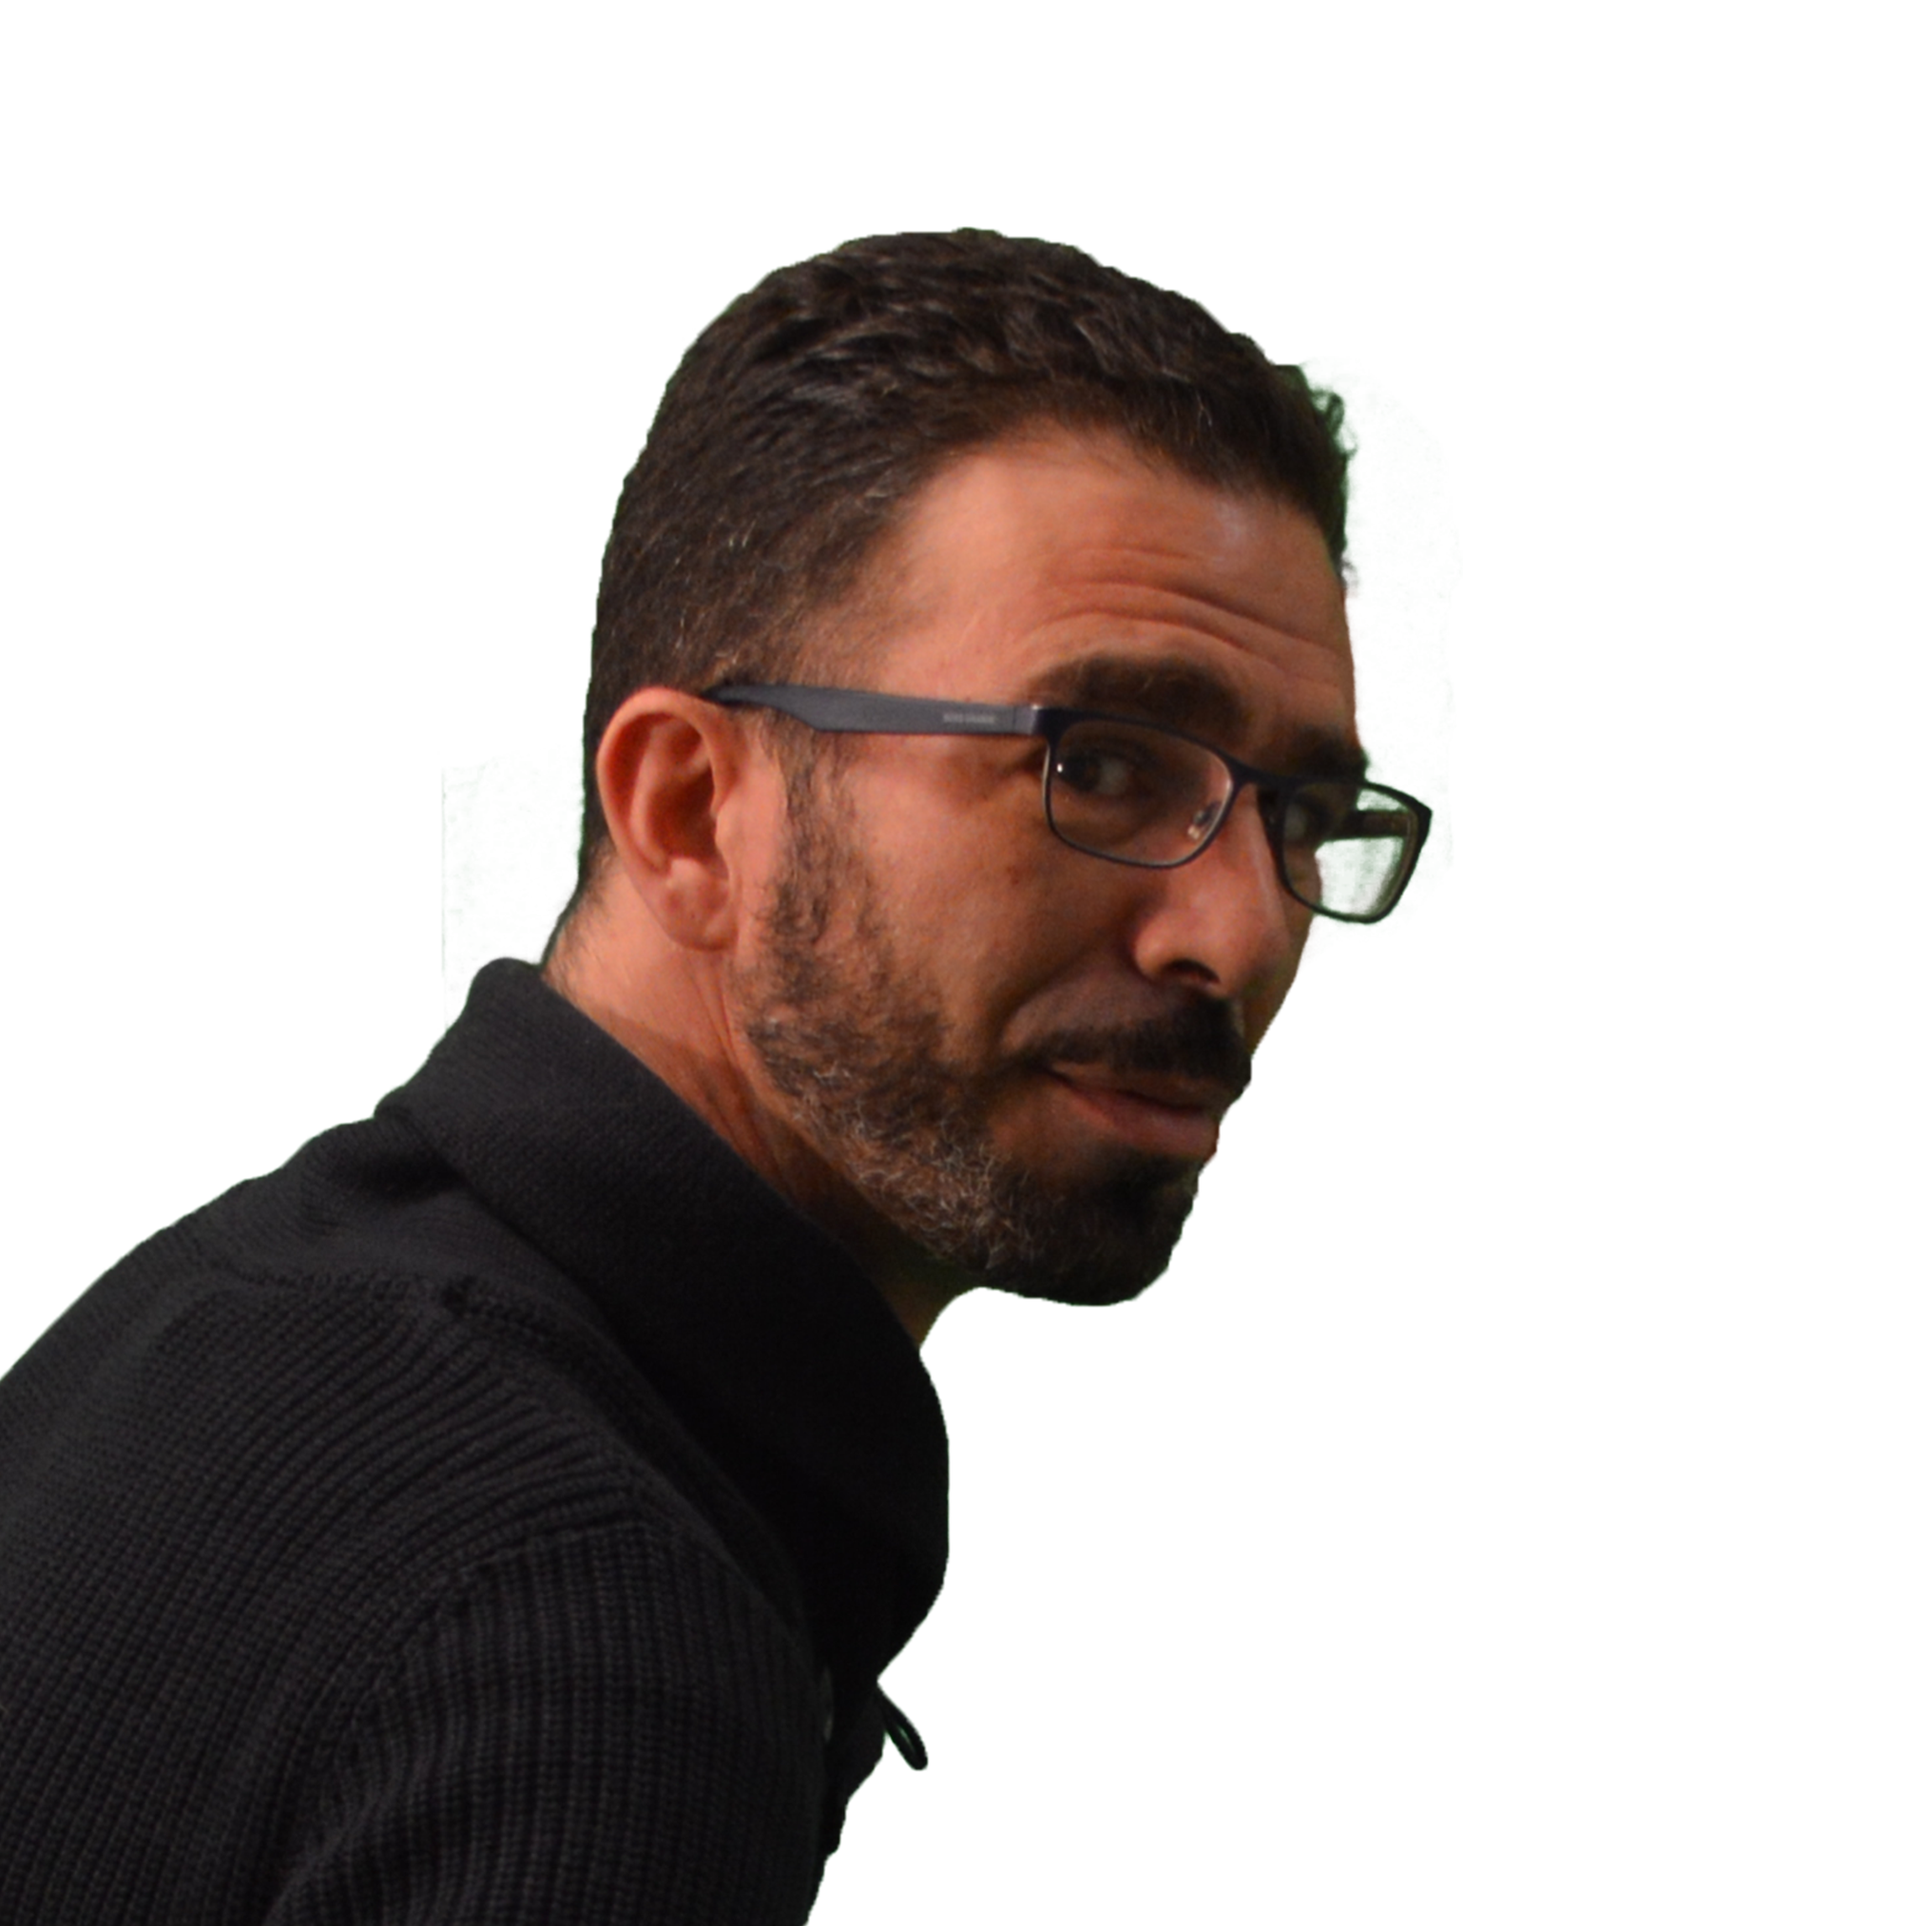
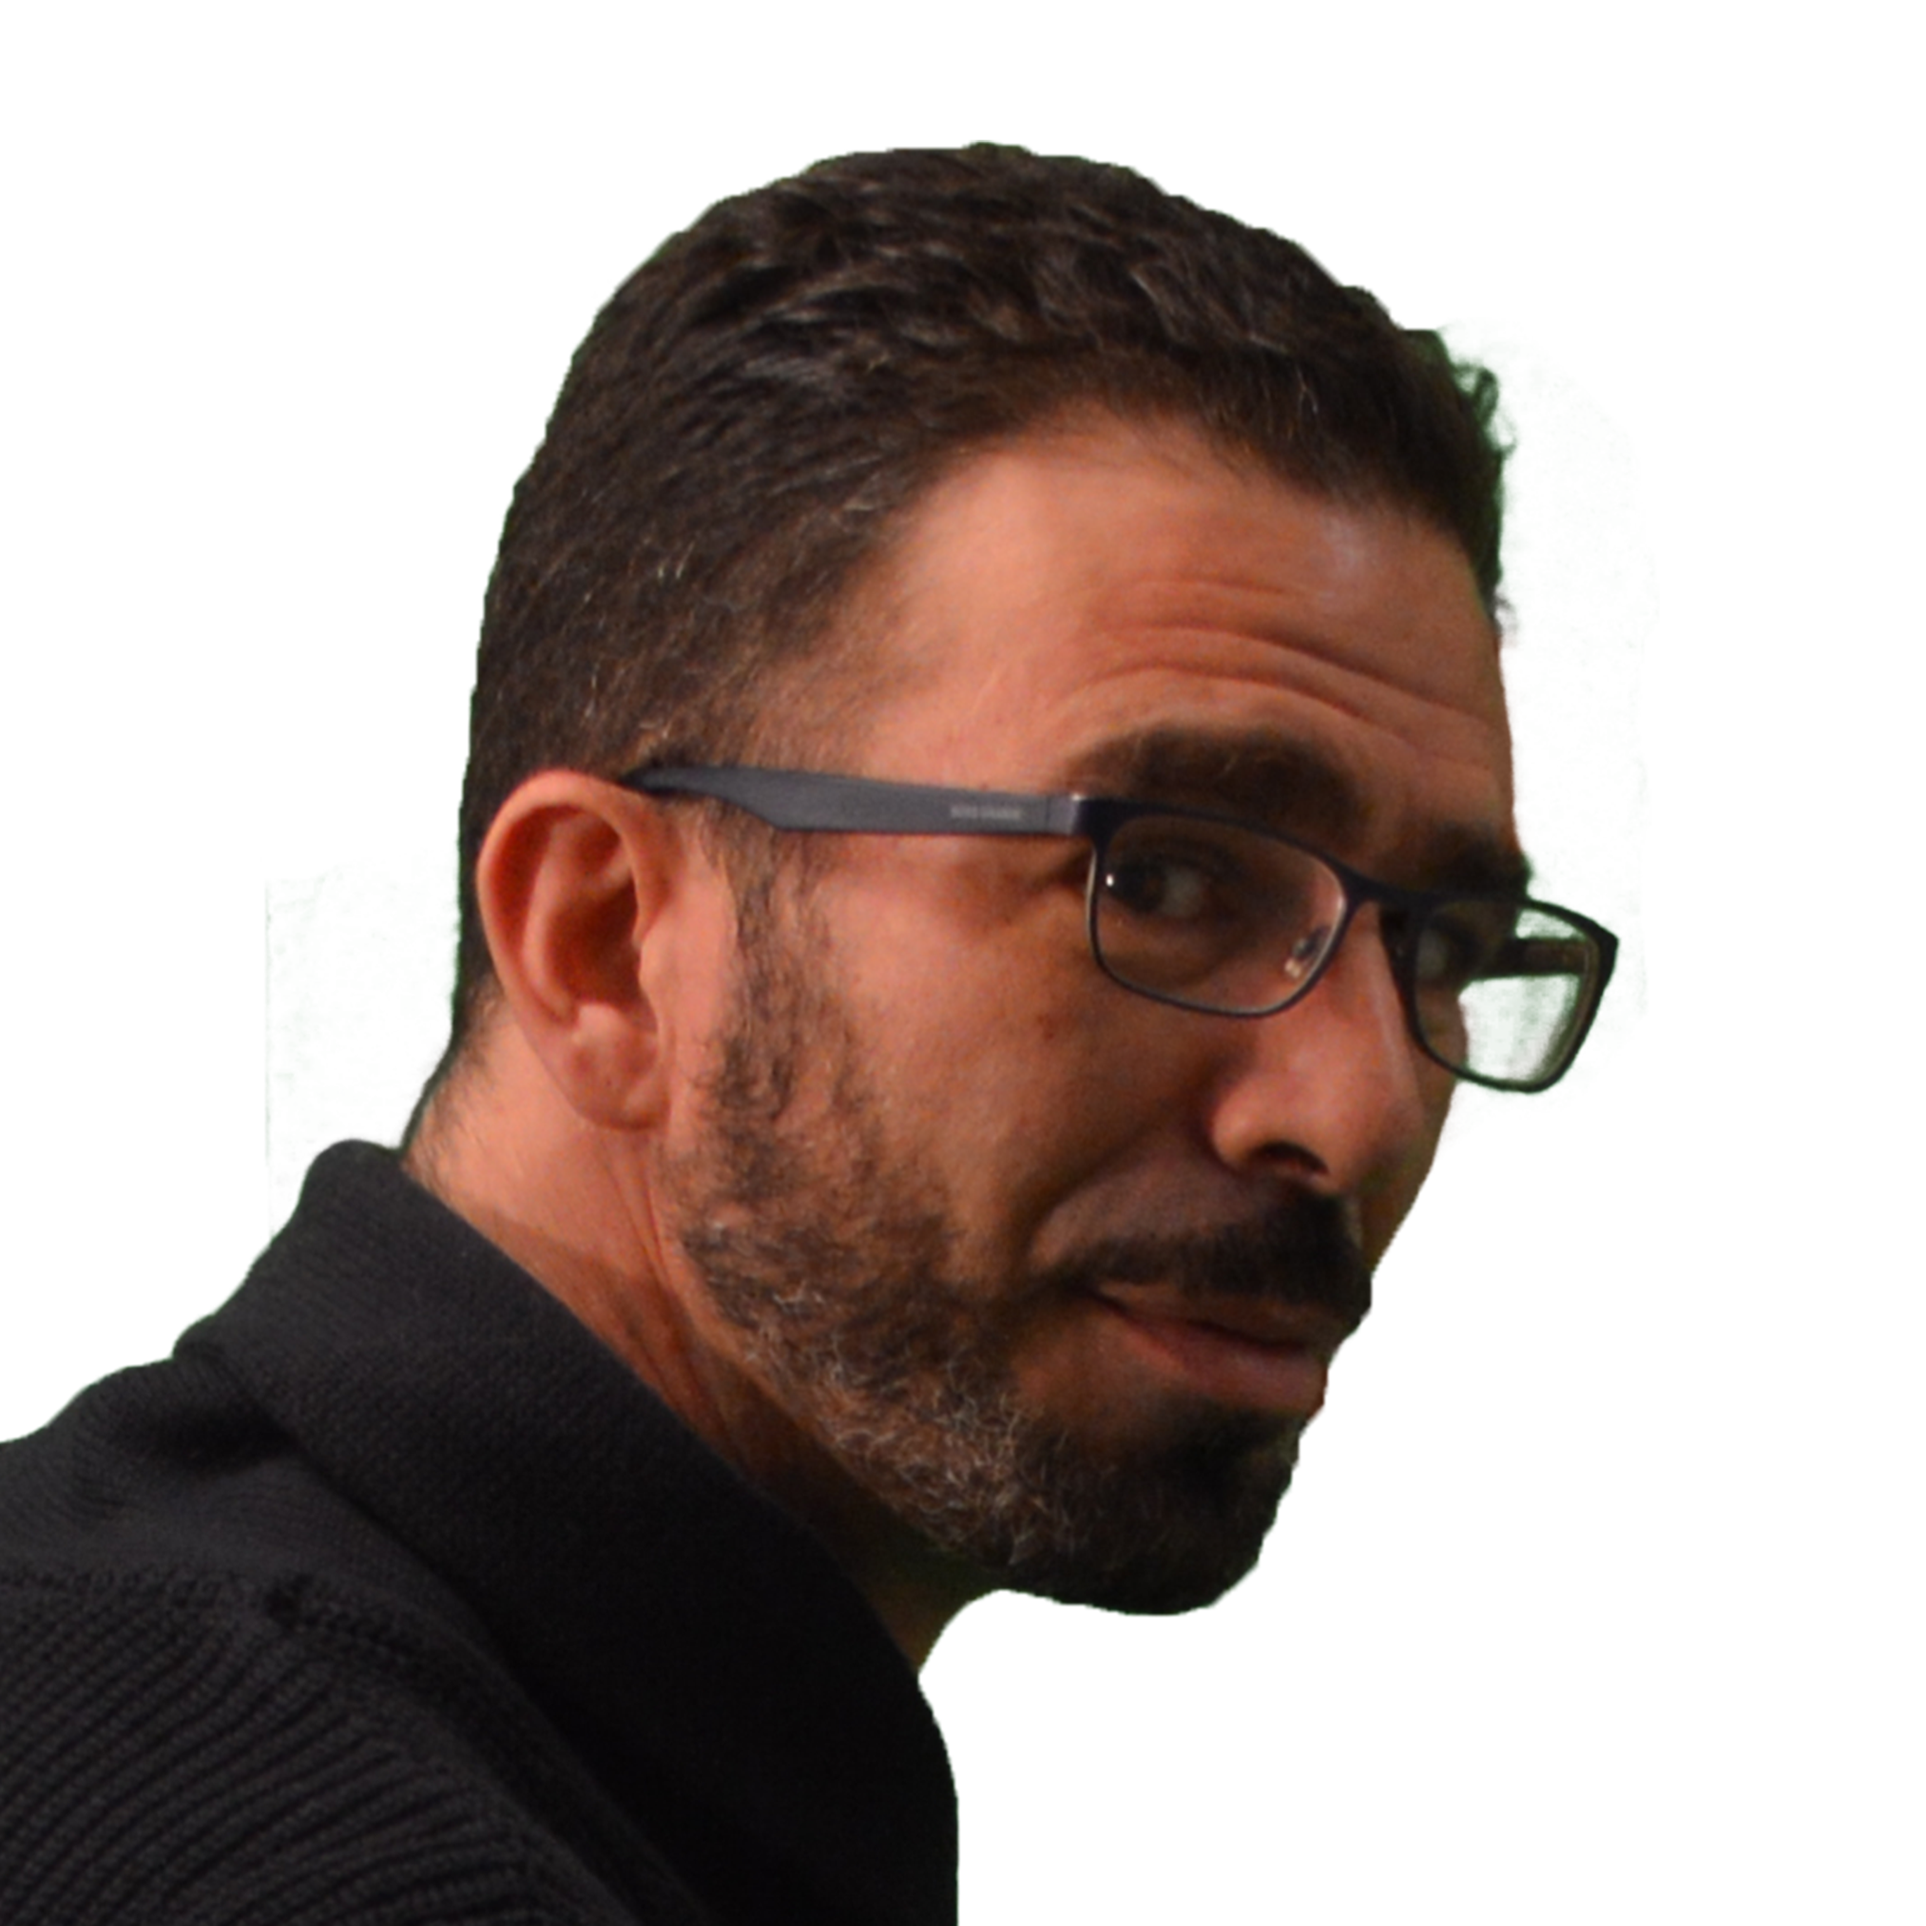
ajout et maj de toutes les photos

Changed region(s): [[0.0, 0.0622, 0.8396, 1.0], [0.4353, 0.2177, 0.5286, 0.2799], [0.2488, 0.8396, 0.2799, 0.8707]]

diff --git a/index.html b/index.html
@@ -229,7 +229,7 @@
                 <div class="card mr-4 mb-3 rotated-card-ccw text-dark bg-info" style="max-width: 350px;">
                   <div class="row no-gutters">
                     <div class="col-md-4">
-                      <img src="images/page_initial/nebo-pdg.png" class="card-img" alt="..." />
+                      <img src="images/page_initial/nebo-pdg2.png" class="card-img" alt="..." />
                     </div>
                     <div class="col-md-8">
                       <div class="card-body">
@@ -259,7 +259,7 @@
                 <div class="card mr-3 mb-3 text-white bg-danger" style="max-width: 350px;">
                   <div class="row no-gutters">
                     <div class="col-md-4">
-                      <img src="images/page_initial/nabil.jpg" class="card-img" alt="..." />
+                      <img src="images/page_initial/nabil-pdg.png" class="card-img" alt="..." />
                     </div>
                     <div class="col-md-8">
                       <div class="card-body">
@@ -274,7 +274,7 @@
                 <div class="card mb-3 mx-auto bg-info" style="max-width: 350px">
                   <div class="row no-gutters">
                     <div class="col-md-4">
-                      <img src="images/page_initial/thomas-fantasy-sansSNCF.png" class="card-img" alt="..." />
+                      <img src="images/page_initial/thomas-pdg.png" class="card-img" alt="..." />
                     </div>
                     <div class="col-md-8">
                       <div class="card-body">
@@ -1258,7 +1258,7 @@
                             <h5 class="card-title">Card title</h5>
                           </div> -->
                           <img
-                            src="images/fantasy/nebo-fun.png"
+                            src="images/fantasy/nebo-fantasy .png"
                             class="card-img-bottom"
                             alt="..."/>
                         </div>
@@ -1365,7 +1365,7 @@
                       <div class="col-6">
                         <div class="card mb-3 text-dark animborder">
                           <img
-                            src="images/pro/nabil.jpg"
+                            src="images/pro/nabil-pro.png"
                             class="card-img-top"
                             alt="..."/>
                             <!-- <div class="card-body">
@@ -1394,7 +1394,7 @@
                             <h5 class="card-title">Card title</h5>
                           </div> -->
                           <img
-                            src="images/fantasy/nabil.jpg"
+                            src="images/fantasy/nabil-fantasy.png"
                             class="card-img-bottom"
                             alt="..."/>
                         </div>
